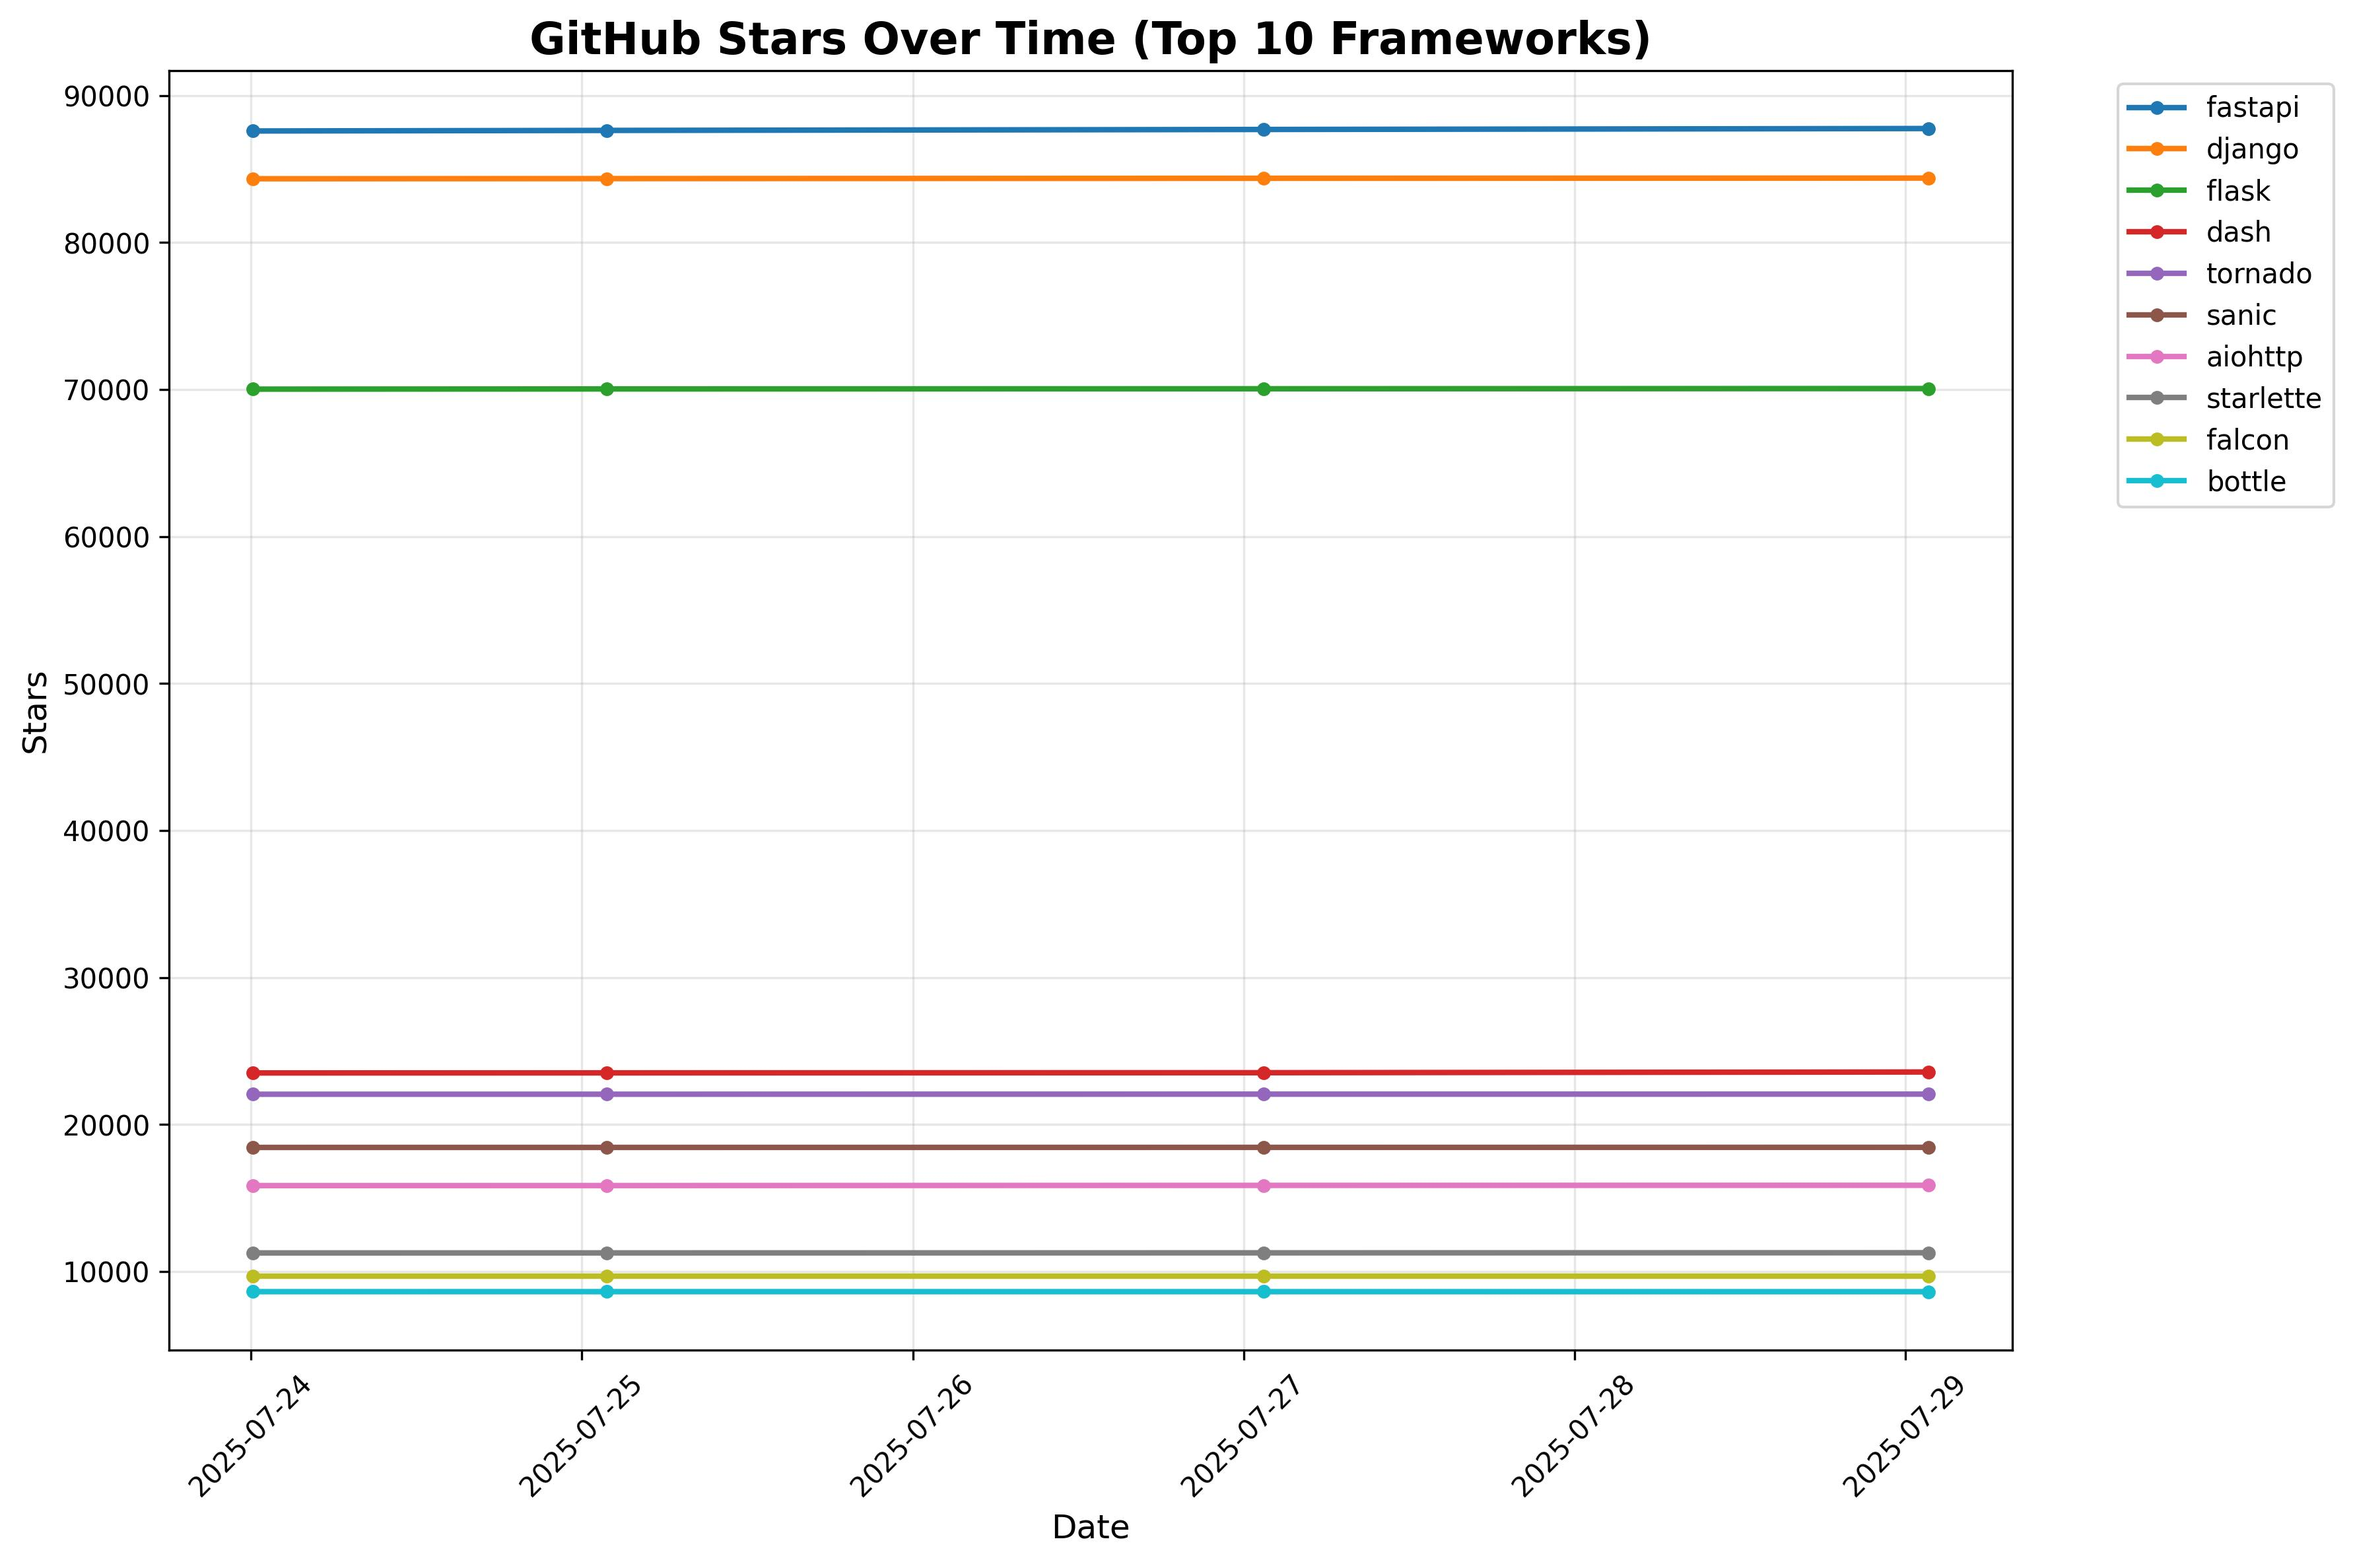
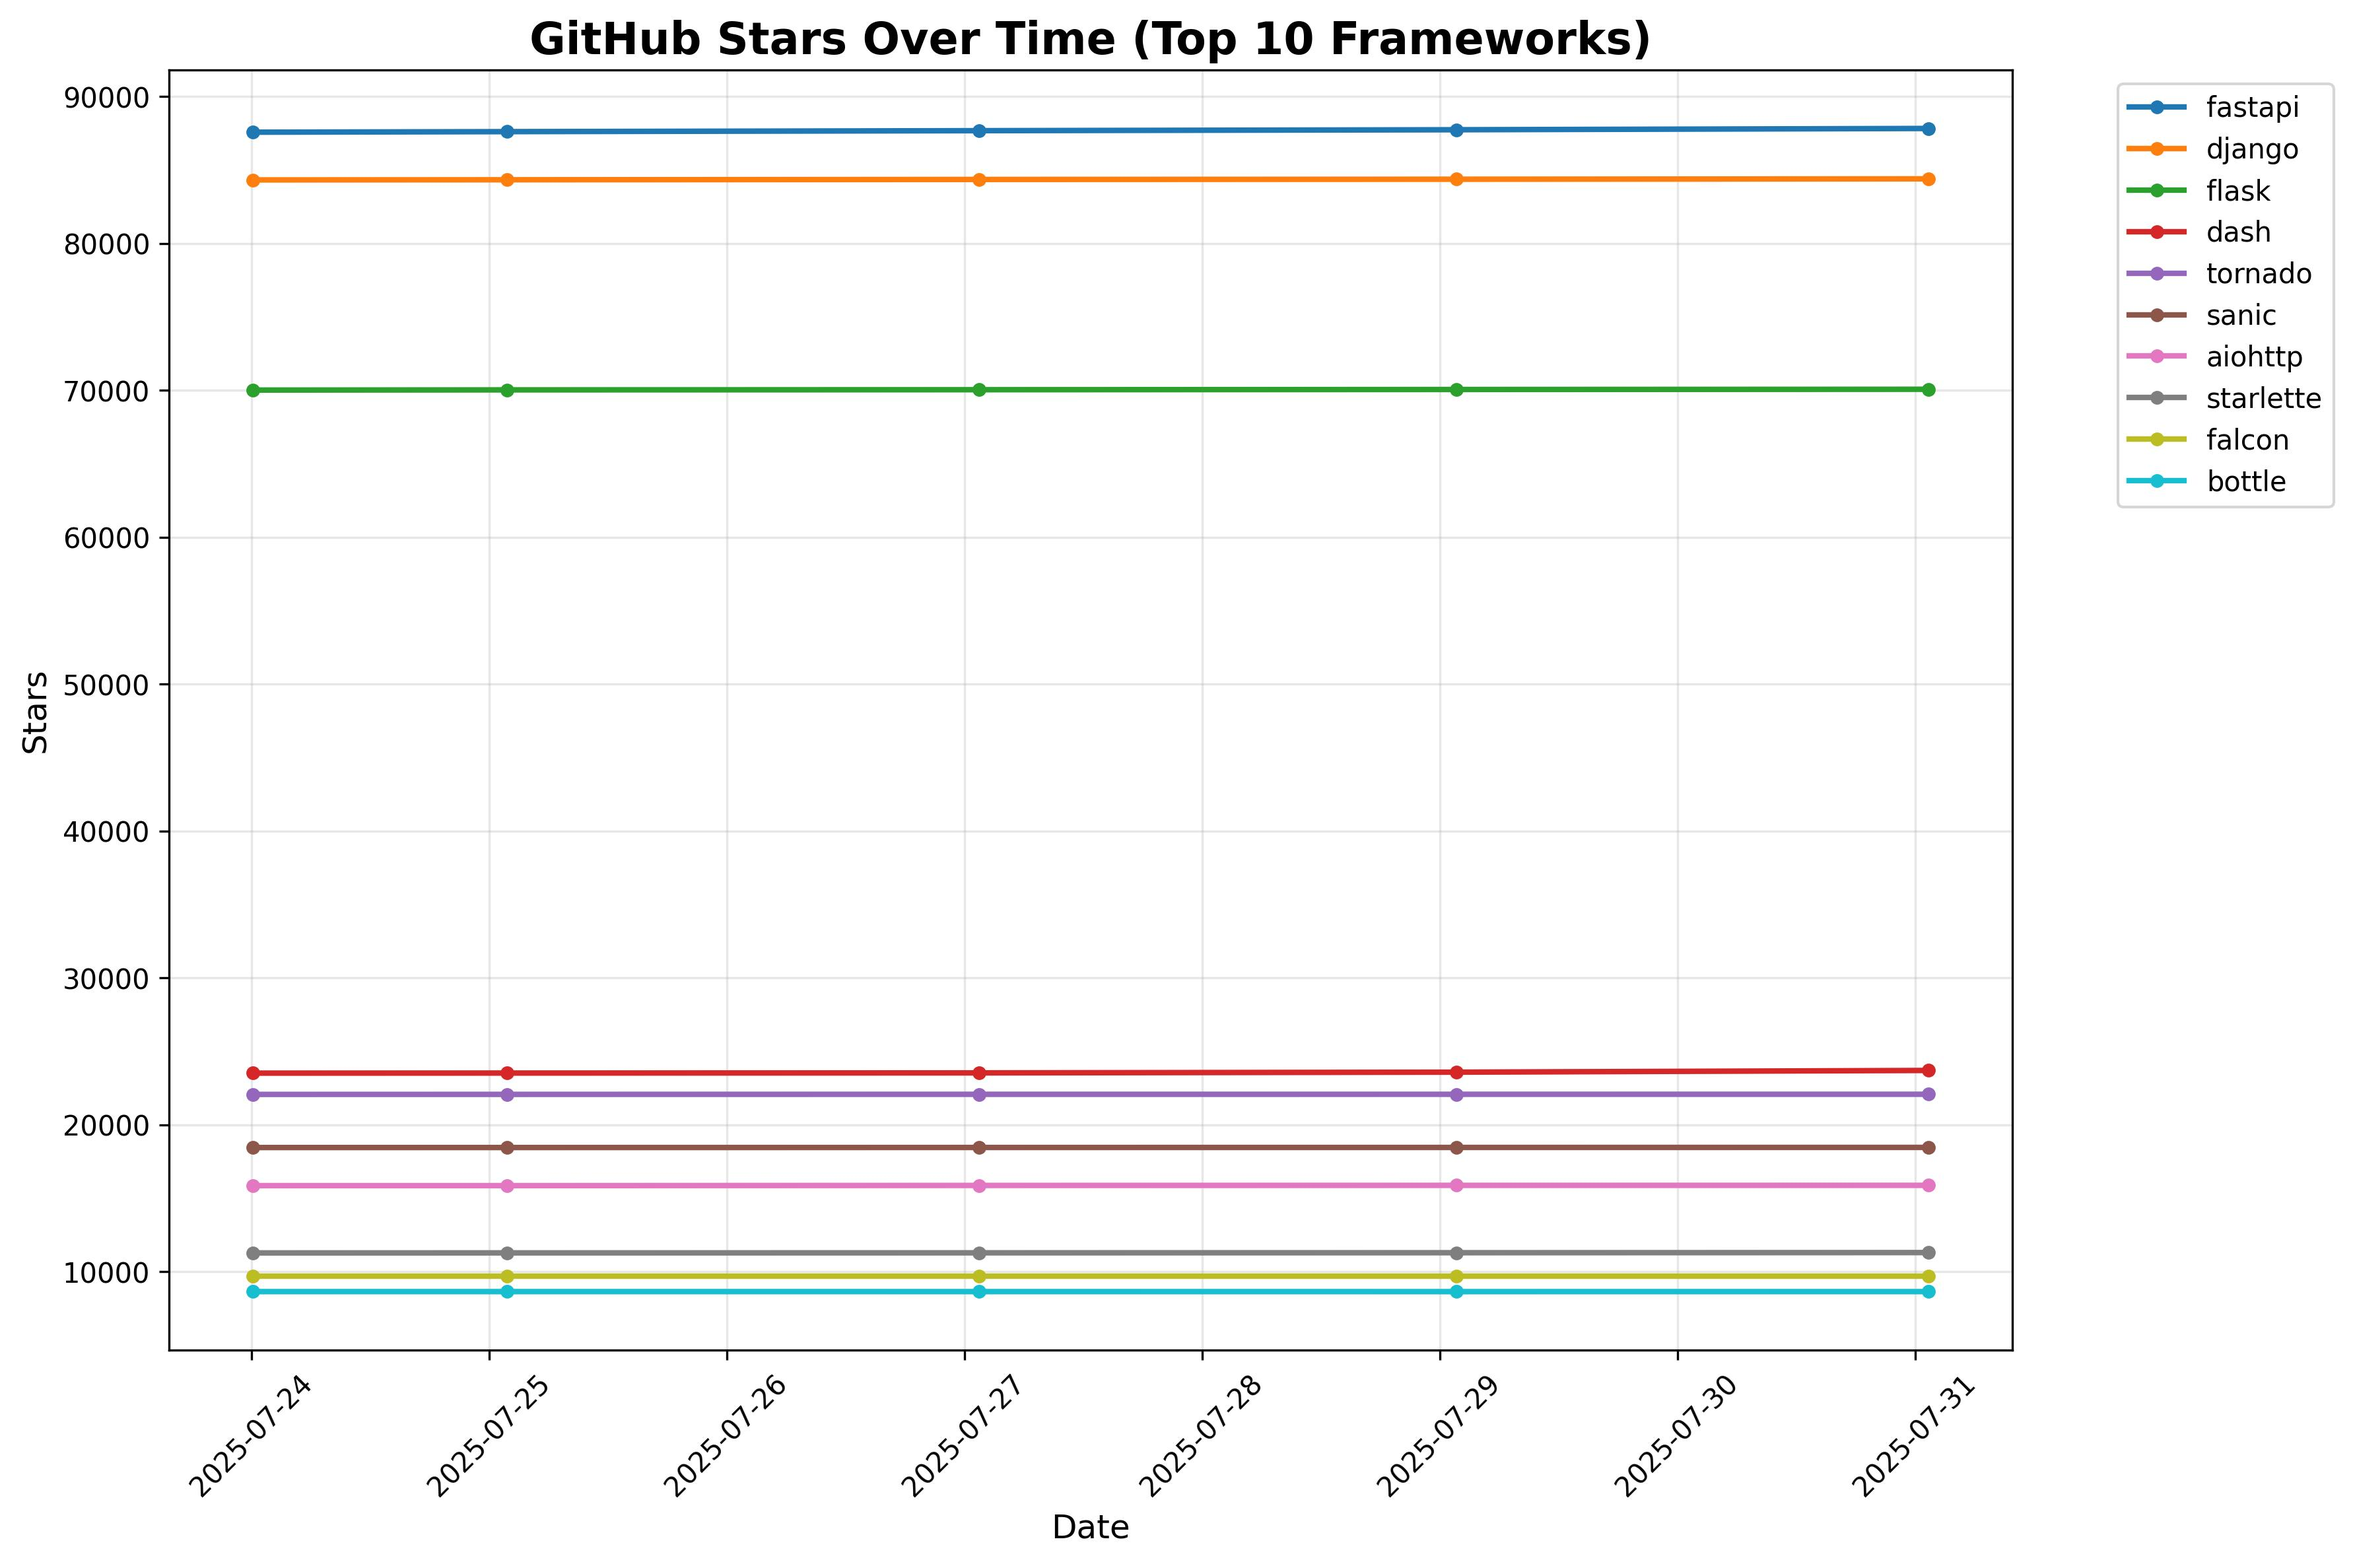
Update framework stars - 2025-07-31 01:22:30 UTC

diff --git a/README.md b/README.md
@@ -7,25 +7,25 @@ A list of popular github projects related to Python web framework (ranked by sta
 
 | Project Name | Stars | Forks | Open Issues | Last Commit |
 | ------------ | ----- | ----- | ----------- | ----------- |
-| [fastapi](https://github.com/fastapi/fastapi) | 87749 | 7653 | 296 | 2025-07-28 20:18:19 |
-| [django](https://github.com/django/django) | 84379 | 32740 | 351 | 2025-07-28 19:41:06 |
-| [flask](https://github.com/pallets/flask) | 70062 | 16503 | 15 | 2025-06-12 20:48:07 |
-| [dash](https://github.com/plotly/dash) | 23577 | 2179 | 540 | 2025-07-18 17:18:35 |
-| [tornado](https://github.com/tornadoweb/tornado) | 22071 | 5534 | 210 | 2025-07-22 20:43:43 |
-| [sanic](https://github.com/sanic-org/sanic) | 18451 | 1575 | 140 | 2025-03-31 21:19:26 |
-| [aiohttp](https://github.com/aio-libs/aiohttp) | 15869 | 2110 | 255 | 2025-07-28 22:54:17 |
-| [starlette](https://github.com/encode/starlette) | 11282 | 1022 | 44 | 2025-07-20 17:29:09 |
-| [falcon](https://github.com/falconry/falcon) | 9692 | 960 | 158 | 2025-07-24 06:42:59 |
-| [bottle](https://github.com/bottlepy/bottle) | 8633 | 1485 | 282 | 2025-06-27 10:14:03 |
-| [hug](https://github.com/hugapi/hug) | 6893 | 389 | 187 | 2023-06-30 13:14:01 |
+| [fastapi](https://github.com/fastapi/fastapi) | 87836 | 7663 | 298 | 2025-07-30 16:38:11 |
+| [django](https://github.com/django/django) | 84406 | 32743 | 350 | 2025-07-30 15:32:39 |
+| [flask](https://github.com/pallets/flask) | 70077 | 16503 | 16 | 2025-06-12 20:48:07 |
+| [dash](https://github.com/plotly/dash) | 23694 | 2181 | 539 | 2025-07-30 21:09:05 |
+| [tornado](https://github.com/tornadoweb/tornado) | 22072 | 5534 | 210 | 2025-07-22 20:43:43 |
+| [sanic](https://github.com/sanic-org/sanic) | 18453 | 1576 | 142 | 2025-03-31 21:19:26 |
+| [aiohttp](https://github.com/aio-libs/aiohttp) | 15870 | 2110 | 257 | 2025-07-30 10:49:18 |
+| [starlette](https://github.com/encode/starlette) | 11292 | 1024 | 44 | 2025-07-20 17:29:09 |
+| [falcon](https://github.com/falconry/falcon) | 9692 | 960 | 161 | 2025-07-24 06:42:59 |
+| [bottle](https://github.com/bottlepy/bottle) | 8634 | 1486 | 283 | 2025-06-27 10:14:03 |
+| [hug](https://github.com/hugapi/hug) | 6895 | 389 | 187 | 2023-06-30 13:14:01 |
 | [eve](https://github.com/pyeve/eve) | 6731 | 745 | 29 | 2025-06-03 13:00:09 |
 | [vibora](https://github.com/vibora-io/vibora) | 5638 | 301 | 140 | 2019-02-11 10:54:12 |
 | [pyramid](https://github.com/Pylons/pyramid) | 4039 | 889 | 82 | 2024-12-20 23:21:35 |
-| [quart](https://github.com/pallets/quart) | 3372 | 184 | 62 | 2025-06-12 21:05:35 |
-| [masonite](https://github.com/MasoniteFramework/masonite) | 2292 | 130 | 20 | 2025-03-20 20:11:49 |
-| [web2py](https://github.com/web2py/web2py) | 2151 | 907 | 369 | 2025-07-14 00:48:47 |
-| [cherrypy](https://github.com/cherrypy/cherrypy) | 1915 | 369 | 259 | 2025-07-04 16:22:41 |
-| [tg2](https://github.com/TurboGears/tg2) | 811 | 80 | 12 | 2025-02-18 22:52:59 |
+| [quart](https://github.com/pallets/quart) | 3374 | 183 | 61 | 2025-07-29 15:07:12 |
+| [masonite](https://github.com/MasoniteFramework/masonite) | 2293 | 130 | 20 | 2025-03-20 20:11:49 |
+| [web2py](https://github.com/web2py/web2py) | 2150 | 907 | 369 | 2025-07-14 00:48:47 |
+| [cherrypy](https://github.com/cherrypy/cherrypy) | 1915 | 369 | 260 | 2025-07-04 16:22:41 |
+| [tg2](https://github.com/TurboGears/tg2) | 811 | 80 | 13 | 2025-02-18 22:52:59 |
 | [Growler](https://github.com/pyGrowler/Growler) | 688 | 21 | 5 | 2020-03-08 07:51:41 |
 | [morepath](https://github.com/morepath/morepath) | 396 | 37 | 77 | 2022-05-29 18:09:39 |
 | [circuits](https://github.com/circuits/circuits) | 316 | 57 | 42 | 2024-04-03 22:38:28 |
@@ -41,4 +41,4 @@ A list of popular github projects related to Python web framework (ranked by sta
 *Charts show the top 10 frameworks by current star count*
 
 
-*Last Automatic Update: 2025-07-29T01:40:34*
+*Last Automatic Update: 2025-07-31T01:22:21*
